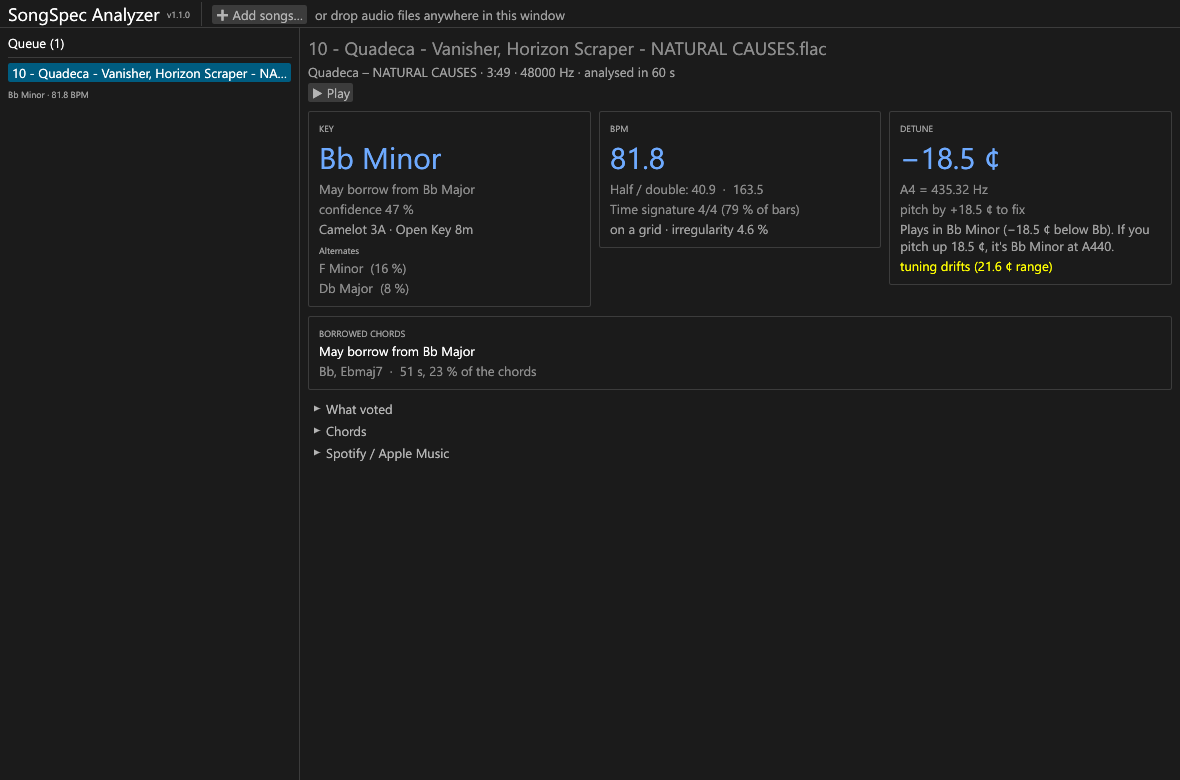
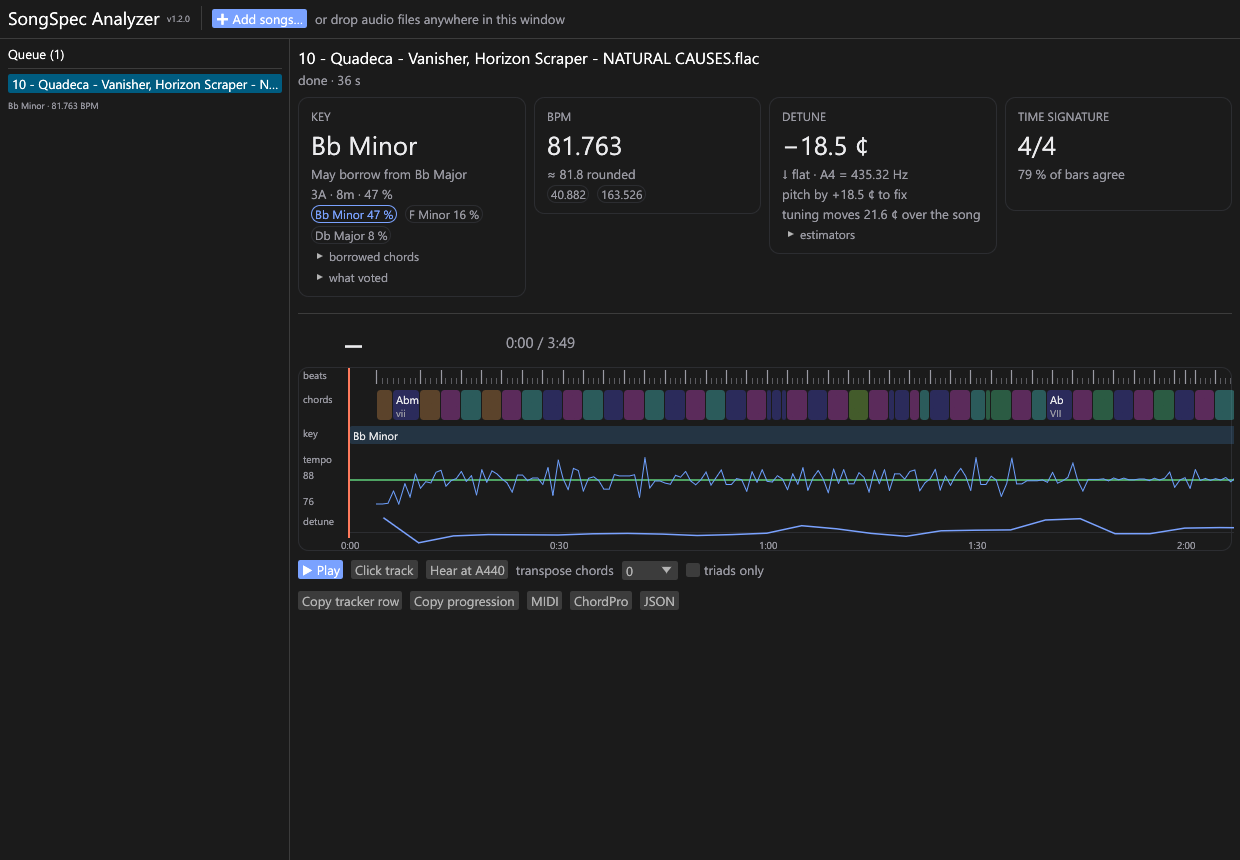
v1.2.0: version bump, README (links, albums, exact BPM, timeline), new app screenshot

diff --git a/rust/songspec-core/src/lib.rs b/rust/songspec-core/src/lib.rs
@@ -4,7 +4,7 @@
 //! No GUI, windowing or OS APIs here: the crate works on decoded samples and bytes, so it can be compiled for WASM later
 //! (with the `centsible` feature off or Centsible built for the target).
 
-pub const ENGINE_VERSION: &str = "1.1.0";
+pub const ENGINE_VERSION: &str = "1.2.0";
 
 pub mod audio;
 #[cfg(feature = "centsible")]

diff --git a/README.md b/README.md
@@ -7,7 +7,7 @@
 
 **Drop in a song. Get its key, BPM, chords, detune and borrowed chords, written the way the SongSpec tracker writes them.**
 
-![version](https://img.shields.io/badge/version-1.1.0-13265c?style=flat-square)
+![version](https://img.shields.io/badge/version-1.2.0-13265c?style=flat-square)
 ![license](https://img.shields.io/badge/license-AGPL--3.0-13265c?style=flat-square)
 ![desktop](https://img.shields.io/badge/desktop-Windows%20.exe-13265c?style=flat-square)
 ![web](https://img.shields.io/badge/web-HTTP%20API%20%2B%20JS%20client-13265c?style=flat-square)
@@ -33,9 +33,9 @@
 |---|---|
 | **Key** | Key in tracker style (`Eb Minor`, `Db Major`, `Bb Minor*` with `A# Phrygian` for a mode), confidence, alternates, Camelot / Open Key, and key changes inside a song. |
 | **May borrow from** | Which scales the song's chords borrow from, for example `May borrow from C Mixolydian, C Minor`. Covers every mode, harmonic / melodic minor, and minor keys borrowing from their major. |
-| **BPM** | The tracker's house rule (80–160, `~` for live, `153 / 104` for beat switches), half / double values and the time signature. Uses BPM Fixer's engine. |
+| **BPM** | The exact tempo to three decimals (`134.759`) with the tracker's rounded reading (80–160, `~` for live, `153 / 104` for beat switches), half / double values and the time signature. Uses BPM Fixer's engine. |
 | **Detune** | Cents off A440 and the A4 frequency (`−18.5 ¢`, `A4 = 435.32 Hz`), plus drift. Uses Centsible's engine. |
-| **Chords** | Chords on the beat grid, with roman numerals (`i–VI–III–VII ×8`), repeating progressions, and MIDI / ChordPro export. |
+| **Chords** | Chords on the beat grid, with roman numerals (`i–VI–III–VII ×8`), on a timeline you can play along to (click track, hear it at A440, transpose), plus MIDI / ChordPro export. |
 | **What voted** | Every key estimator's answer, for when you want to know *why*. |
 
 ---
@@ -45,7 +45,13 @@
 ### 1. Desktop app (Windows)
 
 One file, `SongSpecAnalyzer.exe`. Double-click it and drop songs in; nothing to install (no Python, no runtimes).
-Songs are analysed one after another. Click one to see its results, and press play to listen.
+**Add songs** takes audio files or links: Spotify tracks, albums and playlists, Apple Music songs and albums, and YouTube videos
+and playlists. A whole album is analysed song by song. Songs are analysed one after another; click one to see its results and
+play it along the chord timeline.
+
+Links are found on YouTube and downloaded with [yt-dlp](https://github.com/yt-dlp/yt-dlp), which the app fetches from its
+official release the first time you need it (you confirm first). Downloaded audio stays in a temporary cache and is deleted when
+the app closes.
 
 Build it yourself: see **[rust/README.md](rust/README.md)**. It comes down to `cargo build --release -p songspec-app`.
 
